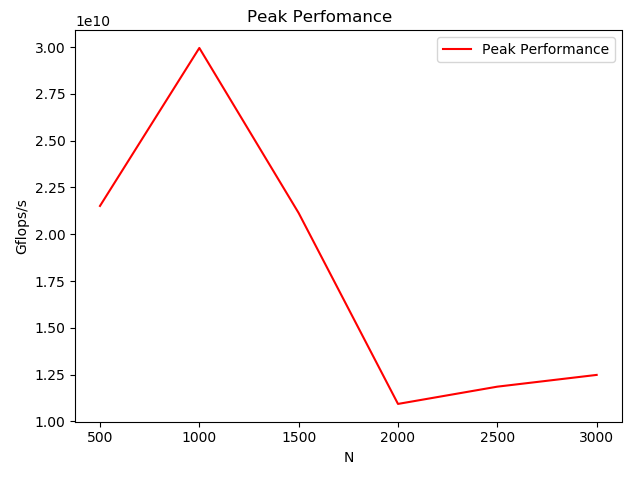
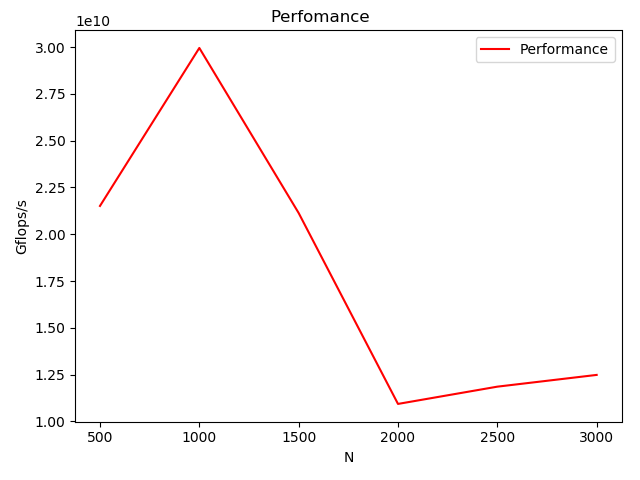
modify cuda

Changed region(s): [[0.375, 0.0, 0.625, 0.0625], [0.6875, 0.0938, 0.9688, 0.125]]

diff --git a/20190107/code/plot.py b/20190107/code/plot.py
@@ -3,7 +3,6 @@ import matplotlib
 matplotlib.use("TkAgg")
 from matplotlib import pyplot as plt
 
-
 n, t, f= [], [], []
 
 def get_cols(filename):
@@ -21,11 +20,11 @@ def get_cols(filename):
 def plot_time(n,  t, plt1 , output):
     plt1.figure(1, clear=True)
     plt1.subplot()
-    plt1.plot(n, t, '-b', label='Time/us')
+    plt1.plot(n, t, '-b', label='Time/s')
     plt1.suptitle("Time")
     plt1.legend()
     plt1.xlabel('N')
-    plt1.ylabel('time(us)')
+    plt1.ylabel('time(s)')
     plt.tight_layout()
     plt1.savefig(output)
 
@@ -33,8 +32,8 @@ def plot_time(n,  t, plt1 , output):
 def plot_pperfomance(n,  t, plt1, output):
     plt1.figure(2, clear=True)
     plt1.subplot()
-    plt1.plot(n, t, '-r', label='Peak Performance')
-    plt1.suptitle("Peak Perfomance")
+    plt1.plot(n, t, '-r', label='Performance')
+    plt1.suptitle("Perfomance")
     plt1.legend()
     plt1.xlabel('N')
     plt1.ylabel('Gflops/s')

diff --git a/20190109/code/plot.py b/20190109/code/plot.py
@@ -20,6 +20,7 @@ def get_cols(filename):
     return n, t, flot
 
 def plot_time(n,  t, plt1, output):
+    plt1.figure(1, clear=True)
     plt1.subplot(111)
    # plt1.plot(n, t, '-b', label='Time/us')
     err = 0.1 + 0.2*np.sqrt(t)
@@ -35,9 +36,10 @@ n, t, f = get_cols('../data/time.dat')
 plot_time(n, t, plt, '../img/time.png')
     
 def plot_pperfomance(n,  t, plt1, output):
+    plt1.figure(2, clear=True)
     plt1.subplot(111)
-    plt1.plot(n, t, '-r', label='Peak Performance')
-    plt1.suptitle("Peak Perfomance")
+    plt1.plot(n, t, '-r', label='Performance')
+    plt1.suptitle("Perfomance")
     plt1.legend()
     plt1.xlabel('N')
     plt1.ylabel('Gflops/s')
@@ -45,4 +47,4 @@ def plot_pperfomance(n,  t, plt1, output):
     plt1.savefig(output)
     
 
-plot_pperfomance(n, f, plt2, '../img/time2.png')
+plot_pperfomance(n, f, plt2, '../img/perfomance.png')

diff --git a/20190109/Ex3_Herbert_Nguruwe.md b/20190109/Ex3_Herbert_Nguruwe.md
@@ -1,8 +1,8 @@
  ###  Herbert Nguruwe
  ## Matrix multiplication from PLASMA 
 
-The exercise required that we implement a matrix multiplication using the PLASMA. The code of the implementation is available [here](code/plasma_dgemm.c).Original raw data is found [here](data/time.data) ,N is the size of the matrix, the time is in seconds, flops. The results are shown in the graph below.The time graph is as expected that it increase as N increases.
+The exercise required that I implement a matrix multiplication using the PLASMA. The code of the implementation is available [here](code/plasma_dgemm.c).Original raw data is found [here](data/time.data) ,N is the size of the matrix, the time is in seconds, flops. The results are shown in the graph below.The time graph is as expected that it increase as N increases.
 
 ![Perfomance analysis](img/time.png "Peak Perfomance")
 
-The number of Flops also increase with N, well possibly this might be because the Number of threads is the same for all computation meaning they might be the same commnication overhead. An increase in N will make us gain in the number of operations as overhead becomes less insignificant.
+The number of Flops also increase with N,the number of threads is the same for all computation meaning they might be the same commnication overhead but an increase in N will make us gain in the number of operations as overhead becomes less significant with respect to total time.
